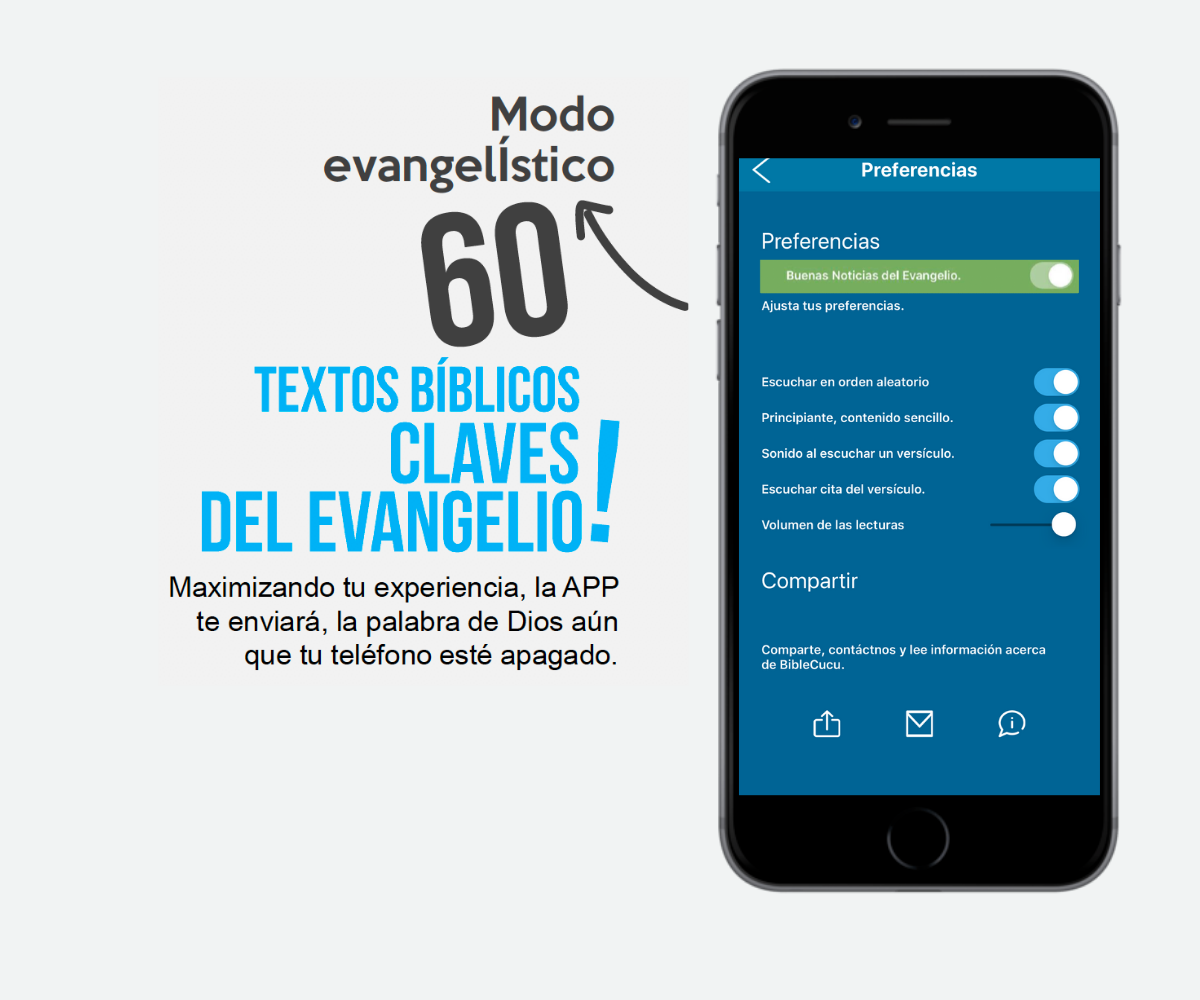
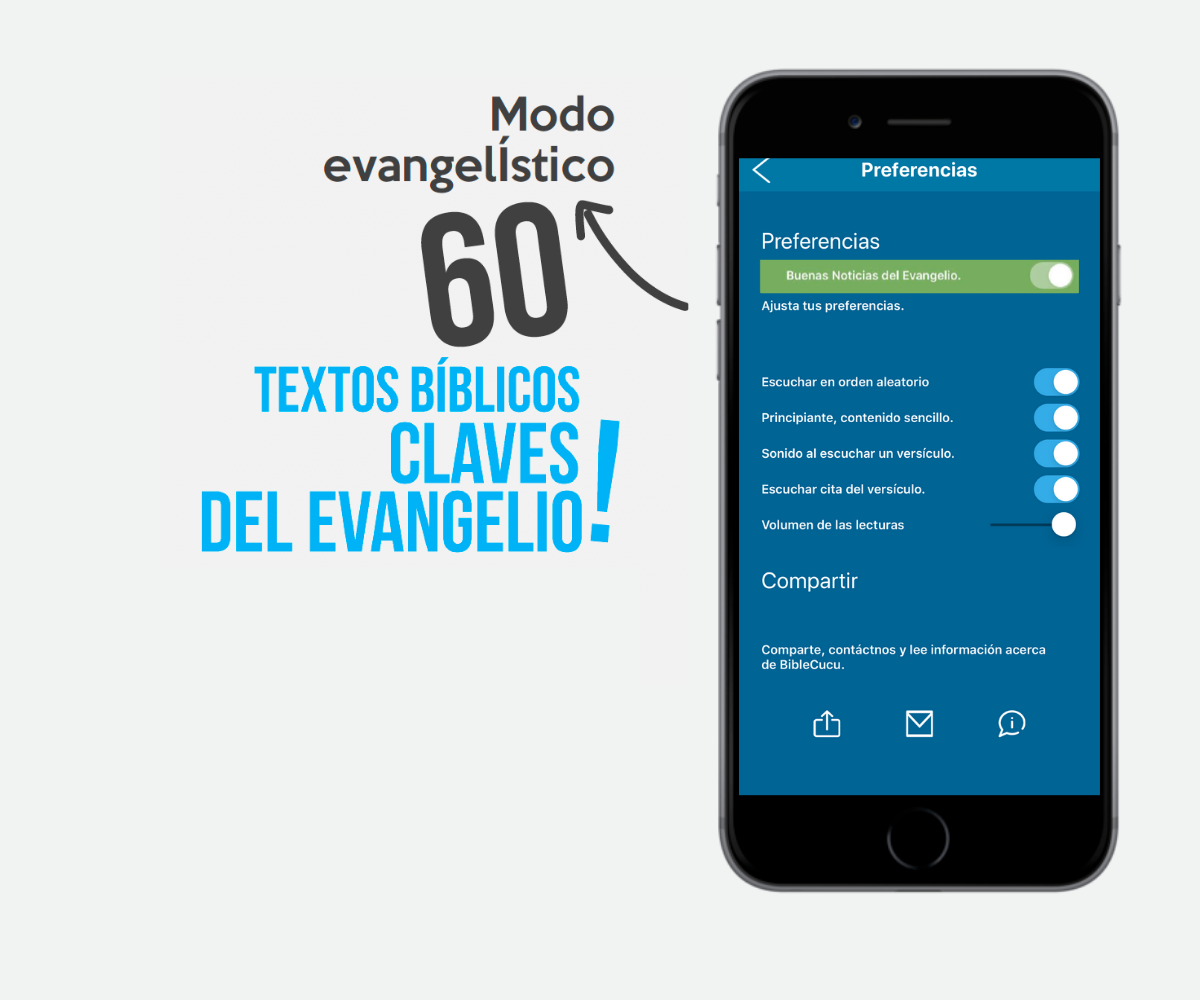
Entrega final

Changed region(s): [[0.1233, 0.558, 0.5242, 0.682]]

diff --git a/index.html b/index.html
@@ -77,6 +77,7 @@
                         <div class="slider_text ">
                             <h3 class="wow fadeInDown" data-wow-duration="1s" data-wow-delay=".1s" >BIBLE WATCH</h3>
                             <p class="wow fadeInLeft" data-wow-duration="1s" data-wow-delay=".1s">Un reloj digital que día a día te acompaña en tu crecimiento cristiano</p>
+                            <img src="img/juan.png" alt="versículo Juan 6:63" style="max-width: 70%; margin-bottom: 20%;">
                             <div class="video_service_btn wow fadeInLeft" data-wow-duration="1s" data-wow-delay=".1s">
                                 <div class="app_download wow fadeInDown" data-wow-duration="1s" data-wow-delay=".1s">
                                     <a href="https://apps.apple.com/cl/app/biblecucu/id1458487312" >
@@ -154,14 +155,17 @@
 
     <!-- Opciones  -->
     <div class="container container-programacion">
-        <div class="row">
-            <div class="col-lg-6 col-md-6">
-                <h3>PROGRÁMALO COMO QUIERAS</h3>
+            <div class="row  align-items-center">
+                <div class="col-xl-12 col-lg-12 col-md-12">
+                    <div class="features_info">
+                        <h3 class="wow fadeInUp" data-wow-duration=".5s" data-wow-delay=".3s" >Programalo como quieras</h3>
+                        <p class="wow fadeInUp" data-wow-duration=".6s" data-wow-delay=".4s"  >Maximizando tu experiencia, la APP te enviará la Palabra de Dios aunque tu teléfono esté apagado. </p>
+                    </div>
+                    <div class="about_image wow fadeInLeft" data-wow-duration=".4s" data-wow-delay=".3s">
+                        <img class="img-tres" src="img/telefono2.png" alt="60 textos claves del evangelio" style="max-width: 70%;">
+                    </div>
+                </div>
             </div>
-            <div class="col-lg-6 col-md-6">
-                <img class="img-programacion" alt="Más de 1400 pasajes bíblicos" src="img/telefono2.png">
-            </div>
-        </div>
     </div>
     <!--/ Opciones  -->
 
@@ -169,22 +173,6 @@
     <!-- about  -->
     <div class="features_area ">
         <div class="container">
-            <!--<div class="features_main_wrap">
-                    <div class="row  align-items-center">
-                            <div class="col-xl-5 col-lg-5 col-md-6">
-                                <div class="features_info2">
-                                    <h3>Una gran
-                                        base de datos</h3>
-                                    <p>De lecturas de pasajes y comentarios de la Biblia, en todos los idiomas y países  con los pasajes  favoritos de cada comunidad.</p>
-                                </div>
-                            </div>
-                            <div class="col-xl-5 col-lg-5 offset-xl-1 offset-lg-1 col-md-6 ">
-                                <div class="about_draw wow fadeInUp" data-wow-duration=".7s" data-wow-delay=".5s">
-                                    <img src="img/ilstrator_img/connection_map.png" alt="">
-                                </div>
-                            </div>
-                    </div>
-            </div>-->
             <div class="features_main_wrap">
                     <div class="row  align-items-center">
                             <div class="col-xl-5 col-lg-5 offset-xl-1 offset-lg-1 col-md-6">
@@ -384,20 +372,6 @@
         </div>
     </div>
     <!--/ prising_area  -->
-
-    <!-- versículo  -->
-    <div class="service_area">
-        <div class="container">
-            <div class="row">
-                <div class="col-xl-12">
-                    <div class="section_title text-center  wow fadeInUp" data-wow-duration=".5s" data-wow-delay=".3s">
-                        <img class="img-versiculo" src="img/versiculo.png" alt="Versículo Juan 6:63">
-                    </div>
-                </div>
-            </div>
-        </div>
-    </div>
-    <!--/ versículo  -->
 
     <!-- productivity_area  -->
     <div class="productivity_area" id="productivity_area">

diff --git a/css/style.css b/css/style.css
@@ -767,6 +767,11 @@ h3 {
 .container-programacion h3{
   font-size: 60px;
   color: #404040;
+  text-align: center;
+}
+
+.container-programacion p{
+  text-align: center;
 }
 
 .img-tres{
@@ -1451,7 +1456,7 @@ h3 {
 
 /* line 8, ../../Arafath/CL/CL October/214. App Landing Page/HTML/scss/_slider.scss */
 .slider_area .single_slider {
-  height: 900px;
+  height: 750px;
   background-size: 100% 100%;
   background-repeat: no-repeat;
   background-position: center center;
@@ -1580,7 +1585,6 @@ h3 {
   font-size: 20px;
   font-weight: 400;
   color: #FFFFFF;
-  margin-bottom: 48px;
   margin-top: 16px;
 }
 
@@ -3532,7 +3536,7 @@ h3 {
 @media (max-width: 767px) {
   /* line 1, ../../Arafath/CL/CL October/214. App Landing Page/HTML/scss/_service.scss */
   .service_area {
-    padding: 130px 0 30px 0;
+    padding: 30px 0 30px 0;
   }
 }
 
